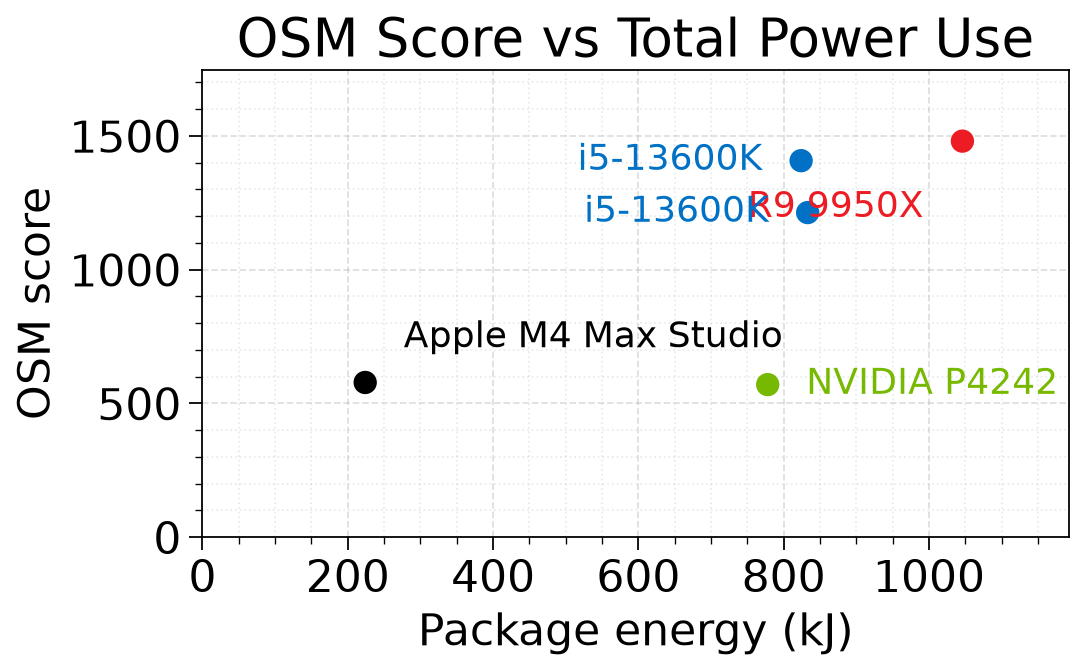
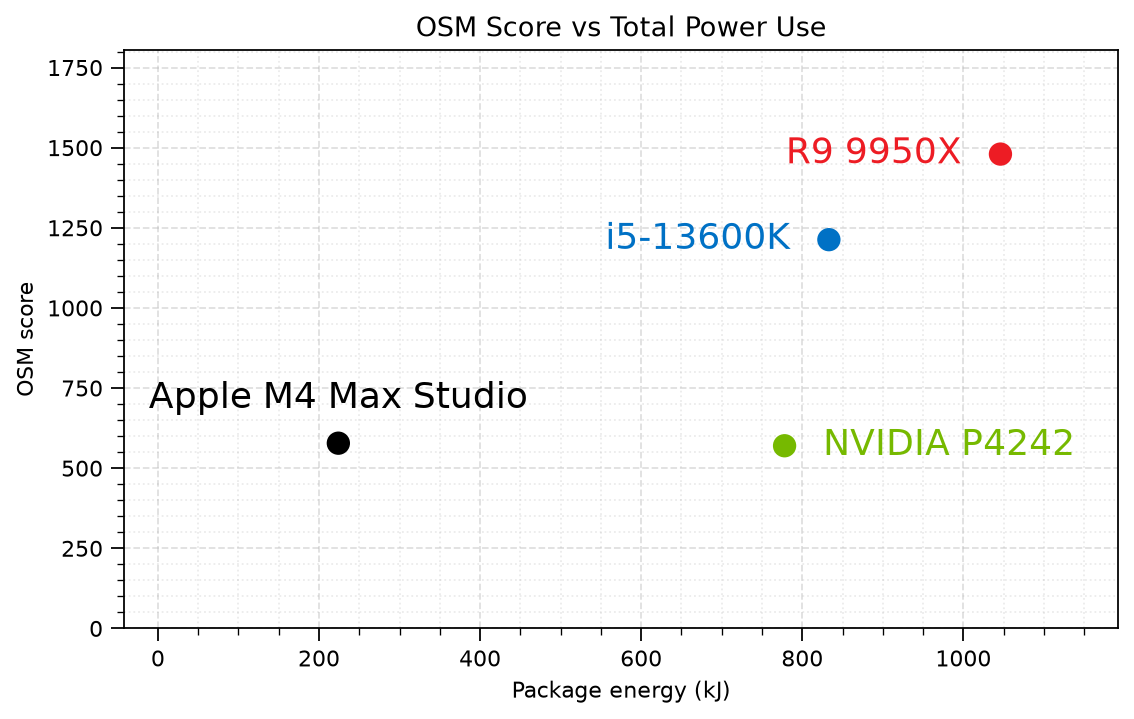
Fair ~128GB RAM on the OSM score-vs-joules chart.
Drop the 188 Gi twilight cell so the board compares like memory class, and retune labels for the four-point layout.

diff --git a/reports/osm-leaderboard.py b/reports/osm-leaderboard.py
@@ -156,9 +156,10 @@ def _marker_x_gap(gap: float = 12) -> float:
 
 
 JOULES_LABEL_OVERRIDES = {
+    # ~128 Gi board: both x86 peaks sit high-right — label left of marker.
     "i5-13600K": LabelOffset(-_marker_x_gap(), 0, ha="right", va="center"),
-    "R9 9950X": LabelOffset(-_marker_x_gap(), -22, ha="right", va="top"),
-    "Apple M4 Max Studio": LabelOffset(_marker_x_gap(), 12, ha="left", va="bottom"),
+    "R9 9950X": LabelOffset(-_marker_x_gap(), 0, ha="right", va="center"),
+    "Apple M4 Max Studio": LabelOffset(0, 12, ha="center", va="bottom"),
     "NVIDIA P4242": LabelOffset(_marker_x_gap(), 0, ha="left", va="center"),
 }
 
@@ -176,9 +177,17 @@ def cpu_color(cpu: str) -> str:
     return "#333333"
 
 
+def roughly_128gb_ram(df: pd.DataFrame) -> pd.DataFrame:
+    """Score-vs-energy board: keep ~128 Gi class, drop fat twilight 188 Gi cells."""
+    if "mem_gb" not in df.columns:
+        return df
+    mem = pd.to_numeric(df["mem_gb"], errors="coerce")
+    return df.loc[mem.isna() | (mem <= 140)].copy()
+
+
 def plot_score_vs_joules(df: pd.DataFrame, output: Path, show: bool = False) -> None:
     """Tiny speed-vs-energy scatter: one point per machine, score against kJ."""
-    pts = df.dropna(subset=["kj", "score_kips"]).copy()
+    pts = roughly_128gb_ram(df).dropna(subset=["kj", "score_kips"])
     if pts.empty:
         raise SystemExit("No package_joules on leaderboard rows")
     fig, ax = plt.subplots(figsize=(7.2, 4.6))
@@ -186,8 +195,9 @@ def plot_score_vs_joules(df: pd.DataFrame, output: Path, show: bool = False) -> 
     ax.scatter(pts["kj"], pts["score_kips"], s=SCATTER_MARKER_SIZE, c=colors, zorder=3)
     xmax = float(pts["kj"].max())
     ymax = float(pts["score_kips"].max())
-    ax.set_xlim(0, xmax * 1.14)
-    ax.set_ylim(0, ymax * 1.18)
+    # Slight left pad so a centered "Apple M4 Max Studio" clears the spine.
+    ax.set_xlim(-xmax * 0.04, xmax * 1.14)
+    ax.set_ylim(0, ymax * 1.22)
     ax.set_xlabel("Package energy (kJ)")
     ax.set_ylabel("OSM score")
     ax.set_title("OSM Score vs Total Power Use")
@@ -217,8 +227,8 @@ def plot_score_vs_joules(df: pd.DataFrame, output: Path, show: bool = False) -> 
 
 
 def joules_takeaway(df: pd.DataFrame) -> str:
-    """Fastest x86 vs cheapest ARM on the one-point-per-machine board."""
-    pts = df.dropna(subset=["kj", "score_kips"]).copy()
+    """Fastest x86 vs cheapest ARM on the ~128 Gi one-point-per-machine board."""
+    pts = roughly_128gb_ram(df).dropna(subset=["kj", "score_kips"])
     if pts.empty:
         return ""
     cpu = pts["cpu"].astype(str)
@@ -254,11 +264,11 @@ def joules_takeaway(df: pd.DataFrame) -> str:
 def joules_markdown(df: pd.DataFrame) -> str:
     takeaway = joules_takeaway(df)
     body = (
-        "Speed vs energy for the best run on each machine. **Score** is OSM kNodes/s; "
-        "**kJ** is total package energy (joules, shown as kilojoules) from the 1-second "
-        "power integral over the test window. NVIDIA DGX Spark package watts come from "
-        "the open [spark_hwmon](https://github.com/antheas/spark_hwmon) module, not an "
-        "NVIDIA-shipped sensor path."
+        "Speed vs energy for the best run on each machine at ~128GB RAM. **Score** is "
+        "OSM kNodes/s; **kJ** is total package energy (joules, shown as kilojoules) from "
+        "the 1-second power integral over the test window. NVIDIA DGX Spark package watts "
+        "come from the open [spark_hwmon](https://github.com/antheas/spark_hwmon) module, "
+        "not an NVIDIA-shipped sensor path."
     )
     if takeaway:
         body = f"{body}\n\n{takeaway}"

diff --git a/docs/leaderboards/osm-performance-power.md b/docs/leaderboards/osm-performance-power.md
@@ -22,7 +22,7 @@ One chart for the same best-score run on each machine, sorted by OSM score. Bar 
 
 ![OSM score vs package energy]({{ '/images/osm-leaderboard-joules.png' | relative_url }})
 
-Speed vs energy for the best run on each machine. **Score** is OSM kNodes/s; **kJ** is total package energy (joules, shown as kilojoules) from the 1-second power integral over the test window. NVIDIA DGX Spark package watts come from the open [spark_hwmon](https://github.com/antheas/spark_hwmon) module, not an NVIDIA-shipped sensor path.
+Speed vs energy for the best run on each machine at ~128GB RAM. **Score** is OSM kNodes/s; **kJ** is total package energy (joules, shown as kilojoules) from the 1-second power integral over the test window. NVIDIA DGX Spark package watts come from the open [spark_hwmon](https://github.com/antheas/spark_hwmon) module, not an NVIDIA-shipped sensor path.
 
 You can potentially triple the score running on the fastest x86 instead of ARM, but it costs 4–5× as much energy to juice up the processors to do it. **R9 9950X** scores **1480** at **1046 kJ**; **Apple M4 Max Studio** scores **578** at **224 kJ** (**2.6×** score, **4.7×** joules). Versus NVIDIA Grace the score ratio is **2.6×** (1480 vs 570).
 
